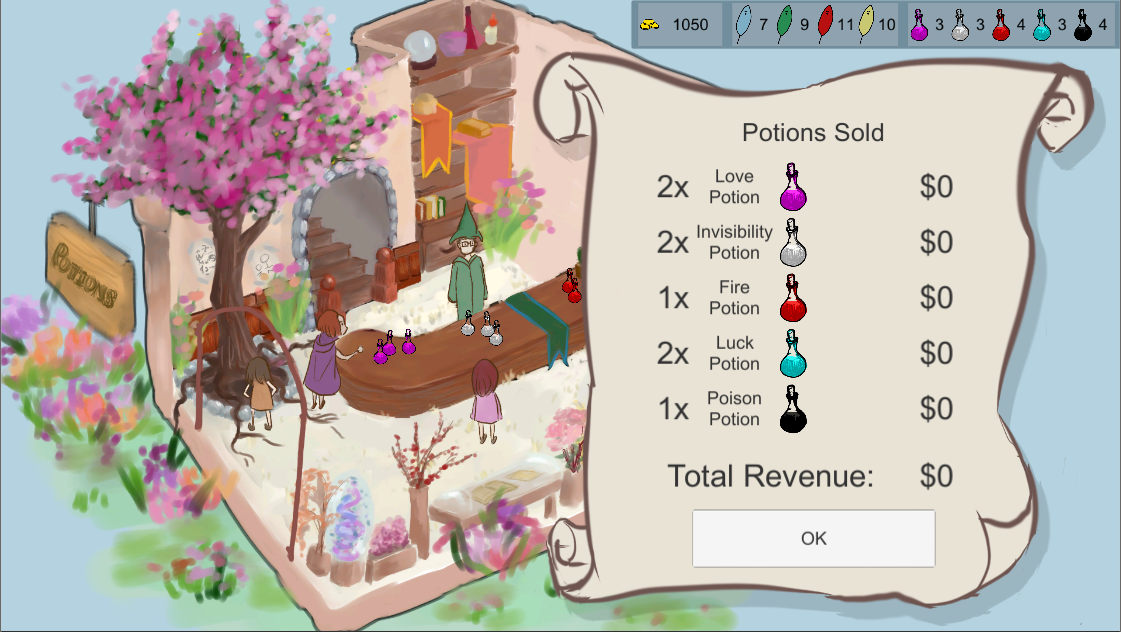
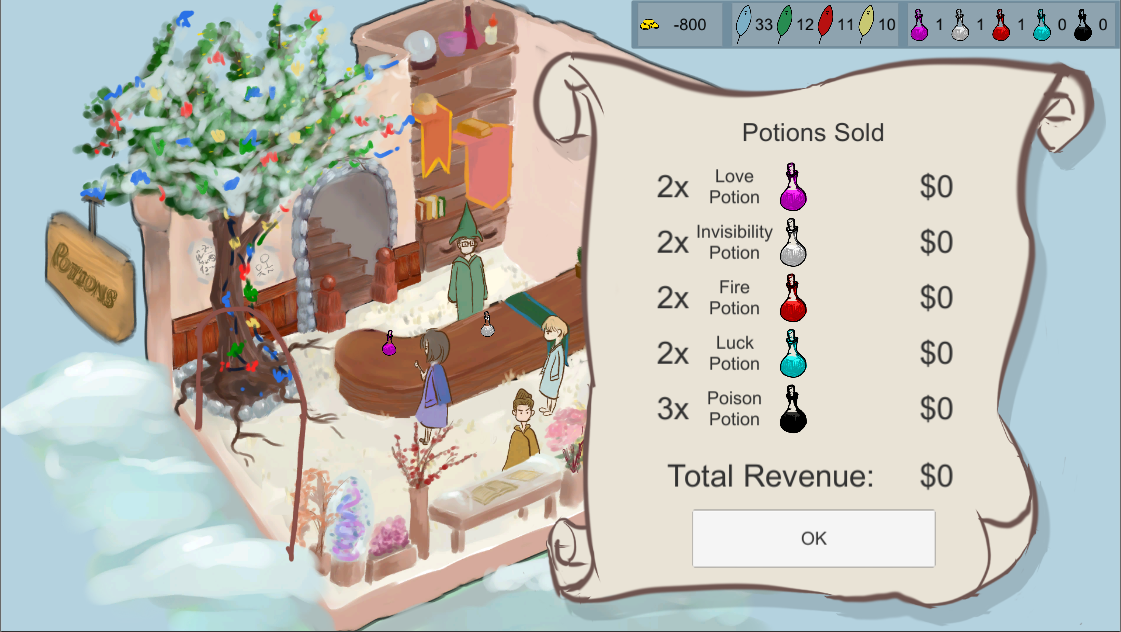
add more images

diff --git a/Assets/Scripts/UI/SpriteManager.cs b/Assets/Scripts/UI/SpriteManager.cs
@@ -15,6 +15,7 @@ public class SpriteManager : MonoBehaviour
     public NamedSprite[] customers;
     public NamedSprite[] wifeImages;
     public NamedSprite[] sonImages;
+    public NamedSprite[] seasonImages;
 
     private Dictionary<string, Sprite> stringToSpriteMap = new Dictionary<string, Sprite>();
     private static SpriteManager mSpriteManagerSingleton;
@@ -54,6 +55,14 @@ public class SpriteManager : MonoBehaviour
             stringToSpriteMap.Add(namedSprite.name, namedSprite.sprite);
         }
         foreach (NamedSprite namedSprite in sonImages)
+        {
+            if (stringToSpriteMap.ContainsKey(namedSprite.name))
+            {
+                Debug.LogWarning("Multiple sprites with name: " + namedSprite.name);
+            }
+            stringToSpriteMap.Add(namedSprite.name, namedSprite.sprite);
+        }
+        foreach (NamedSprite namedSprite in seasonImages)
         {
             if (stringToSpriteMap.ContainsKey(namedSprite.name))
             {

diff --git a/Assets/Scripts/State/GameState.cs b/Assets/Scripts/State/GameState.cs
@@ -82,3 +82,23 @@ public class GameState
     }
 
 }
+
+public static class SeasonExtensions
+{
+    public static string GetImage(this GameState.Season season)
+    {
+        switch (GameState.season)
+        {
+            case GameState.Season.SPRING:
+                return "spring";
+            case GameState.Season.SUMMER:
+                return "summer";
+            case GameState.Season.FALL:
+                return "fall";
+            case GameState.Season.WINTER:
+                return "winter";
+            default:
+                return "summer";
+        }
+    }
+}

diff --git a/Assets/Scripts/UI/UIControllerSystem.cs b/Assets/Scripts/UI/UIControllerSystem.cs
@@ -225,6 +225,7 @@ public class UIControllerSystem : MonoBehaviour
                     // TODO: if a potion stopped being visible it was just sold. Show the +money animation there
                 }
             }
+            SimulationDefaultContent.transform.Find("Shop/Season").GetComponent<Image>().sprite = SpriteManager.GetSprite(GameState.season.GetImage());
         }
         /**
          * Overlay views
